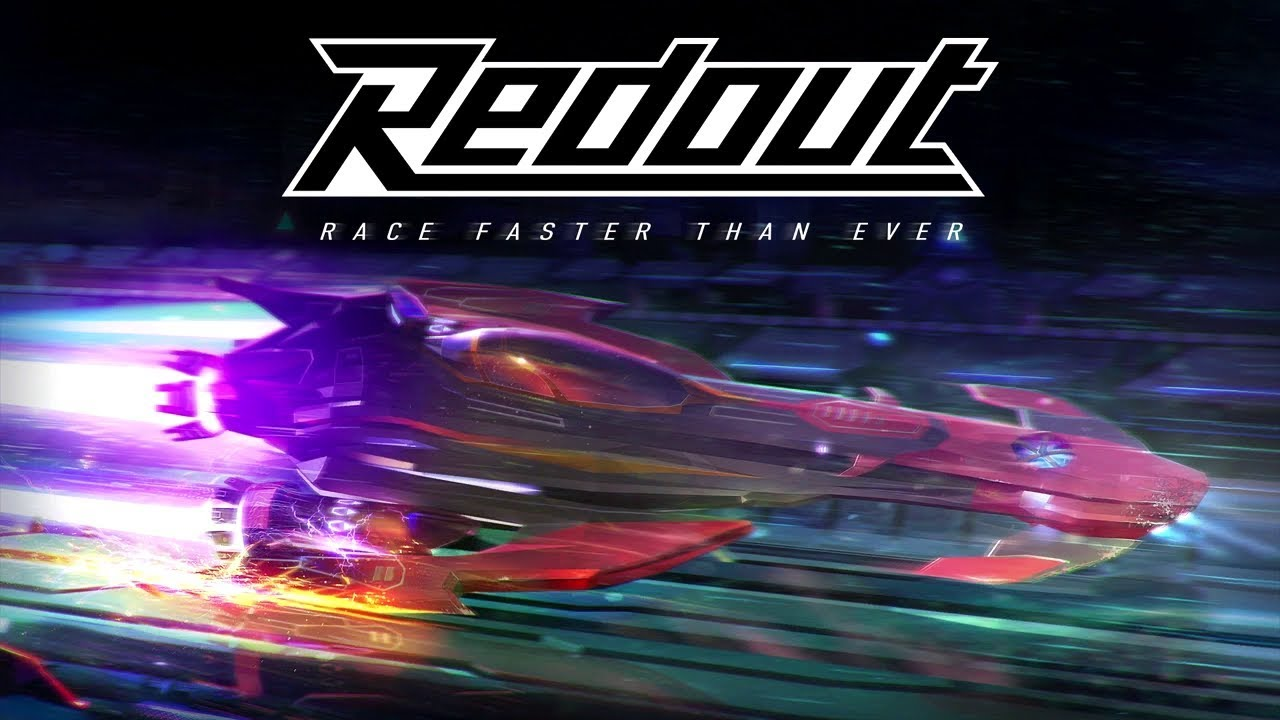
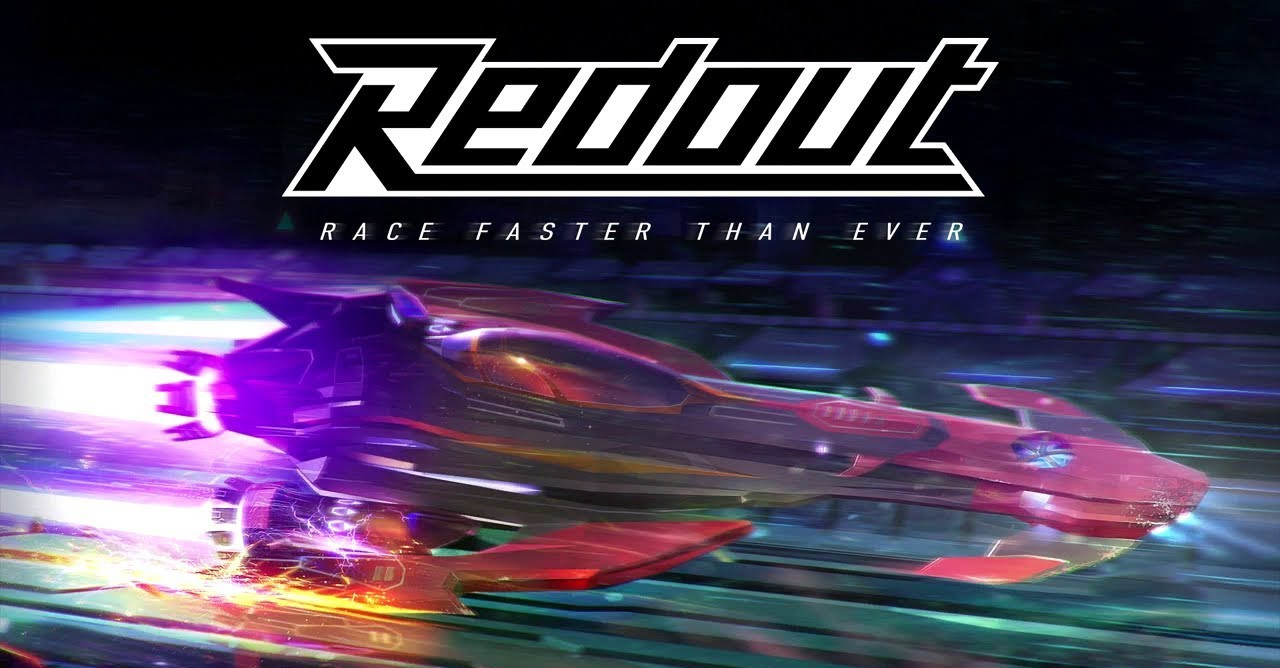
Improving structure

diff --git a/docs/_static/xmngames.js b/docs/_static/xmngames.js
@@ -1,0 +1,18 @@
+$(document).ready(function () {
+  var star_full = '<i class="fas fa-star"></i>';
+  var star_empty = '<i class="far fa-star"></i>';
+  var star_half = '<i class="fas fa-star-half-alt"></i>';
+
+  $('.0_star').html(star_empty.repeat(5));
+  $('.1_star').html(star_full + star_empty.repeat(4));
+  $('.2_star').html(star_full.repeat(2) + star_empty.repeat(3));
+  $('.3_star').html(star_full.repeat(3) + star_empty.repeat(2));
+  $('.4_star').html(star_full.repeat(4) + star_empty.repeat(1));
+  $('.5_star').html(star_full.repeat(5));
+
+  $('.half_star').html(star_half + star_empty.repeat(4));
+  $('.1_half_star').html(star_full + star_half + star_empty.repeat(3));
+  $('.2_half_star').html(star_full.repeat(2) + star_half + star_empty.repeat(2));
+  $('.3_half_star').html(star_full.repeat(3) + star_half + star_empty.repeat(1));
+  $('.4_half_star').html(star_full.repeat(4) + star_half);
+});

diff --git a/docs/_static/xmngames.css b/docs/_static/xmngames.css
@@ -6,10 +6,6 @@ main {
     background-color: #ffffff;
 }
 
-.main-image-section {
-    margin-left: -50px!important;
-}
-
 .bd-sidebar {
     background-color: #ffc800;
 }

diff --git a/docs/nintendo-switch-reviews/redout.md b/docs/nintendo-switch-reviews/redout.md
@@ -1,5 +1,9 @@
 # Redout
 
+*TODO: change the text*
+
+Redout is a futuristic racing video game developed and published by Italian studio 34BigThings, and co-published by Nicalis and 505 Games.[1] It is inspired by racing games such as F-Zero, Wipeout, Rollcage, and POD as stated on the game page on Steam.
+
 ```{image} /_static/nintendo-switch/redout.jpg
 :alt: Nintendo Switch
 :class: main-image-section
@@ -8,50 +12,57 @@
 ```
 *TODO: change this photo*
 
-## About the game
-
-*TODO: change the text*
-
-Redout is a futuristic racing video game developed and published by Italian studio 34BigThings, and co-published by Nicalis and 505 Games.[1] It is inspired by racing games such as F-Zero, Wipeout, Rollcage, and POD as stated on the game page on Steam.
-
 The game was released on Microsoft Windows on September 2, 2016, while PlayStation 4 and Xbox One got a late August, 2017 release.[2] The Nintendo Switch port was originally slated for a Spring 2017 release, but got delayed and was re-announced for a May 14, 2019 release.[3]
 
-<iframe width="560" height="315" src="https://www.youtube.com/embed/9BXIY7_lstk" frameborder="0" allow="accelerometer; autoplay; clipboard-write; encrypted-media; gyroscope; picture-in-picture" allowfullscreen></iframe>
+
+<iframe src="https://www.youtube.com/embed/9BXIY7_lstk?controls=0"
+    frameborder="0"
+    allow="accelerometer; autoplay; clipboard-write; encrypted-media; gyroscope; picture-in-picture"
+    allowfullscreen
+    width="100%"
+    height="315"
+></iframe>
 
 
-## Evaluation table
+## Evaluation
 
 ````{panels}
 
-|General Criteria|Score (0 - 5 stars)|
+|General Criteria|Score|
 |:-------|-----|
-|Fun|<i class="fas fa-star"></i><i class="fas fa-star"></i><i class="fas fa-star"></i><i class="fas fa-star"></i><i class="fas fa-star"></i>|
-|Playability|<i class="fas fa-star"></i><i class="fas fa-star"></i><i class="fas fa-star"></i><i class="fas fa-star"></i><i class="fas fa-star"></i>|
-|Graphics|<i class="fas fa-star"></i><i class="fas fa-star"></i><i class="fas fa-star"></i><i class="fas fa-star"></i><i class="fas fa-star"></i>|
-|Soundtrack|<i class="fas fa-star"></i><i class="fas fa-star"></i><i class="fas fa-star"></i><i class="fas fa-star"></i><i class="fas fa-star"></i>|
-|Originality|<i class="fas fa-star"></i><i class="fas fa-star"></i><i class="fas fa-star"></i><i class="fas fa-star"></i><i class="fas fa-star"></i>|
-|Challenging|<i class="fas fa-star"></i><i class="fas fa-star"></i><i class="fas fa-star"></i><i class="fas fa-star"></i><i class="fas fa-star"></i>|
-|Story|<i class="far fa-star"></i><i class="far fa-star"></i><i class="far fa-star"></i><i class="far fa-star"></i><i class="far fa-star"></i>|
-|On-line mode experience| <i class="far fa-star"></i><i class="far fa-star"></i><i class="far fa-star"></i><i class="far fa-star"></i><i class="far fa-star"></i>* |
+|Fun|<span class="5_star"></span>|
+|Playability|<span class="5_star"></span>|
+|Graphics|<span class="5_star"></span>|
+|Soundtrack|<span class="5_star"></span>|
+|Originality|<span class="5_star"></span>|
+|Challenging|<span class="5_star"></span>|
+|Story|<span class="0_star"></span>|
+|On-line mode experience| <span class="0_star"></span>* |
 
 ---
 
-|Racing Game Criteria|Score (0 - 5 stars)|
+|Racing Game Criteria|Score|
 |:-------|-----|
-|Vehicles available|<i class="fas fa-star"></i><i class="fas fa-star"></i><i class="fas fa-star"></i><i class="fas fa-star"></i><i class="fas fa-star-half-alt"></i> |
-|Vehicles power-ups available|<i class="fas fa-star"></i><i class="fas fa-star"></i><i class="fas fa-star"></i><i class="fas fa-star"></i><i class="fas fa-star"></i>|
-|Tracks available|<i class="fas fa-star"></i><i class="fas fa-star"></i><i class="fas fa-star"></i><i class="fas fa-star"></i><i class="fas fa-star"></i>|
-|Racing modes available|<i class="fas fa-star"></i><i class="fas fa-star"></i><i class="fas fa-star"></i><i class="fas fa-star"></i><i class="fas fa-star"></i>|
-|Multiplayer mode experience| <i class="far fa-star"></i><i class="far fa-star"></i><i class="far fa-star"></i><i class="far fa-star"></i><i class="far fa-star"></i> |
+|Vehicles available|<span class="4_half_star"></span> |
+|Vehicles power-ups available|<span class="5_star"></span>|
+|Tracks available|<span class="5_star"></span>|
+|Racing modes available|<span class="5_star"></span>|
+|Multiplayer mode experience| <span class="0_star"></span>** |
 
 ````
+
+```{note}
+`*` I tried some times to play online, but there wasn't anyone available for play online.
+
+`**` There is no multiplayer mode available.
+```
 
 ```{admonition} Summary
 :class: info
 
 Coming soon!
 
-<i class="fas fa-star"></i><i class="fas fa-star"></i><i class="fas fa-star"></i><i class="fas fa-star"></i><i class="fas fa-star-half-alt"></i>
+<span class="4_half_star"></span>
 ```
 
 
